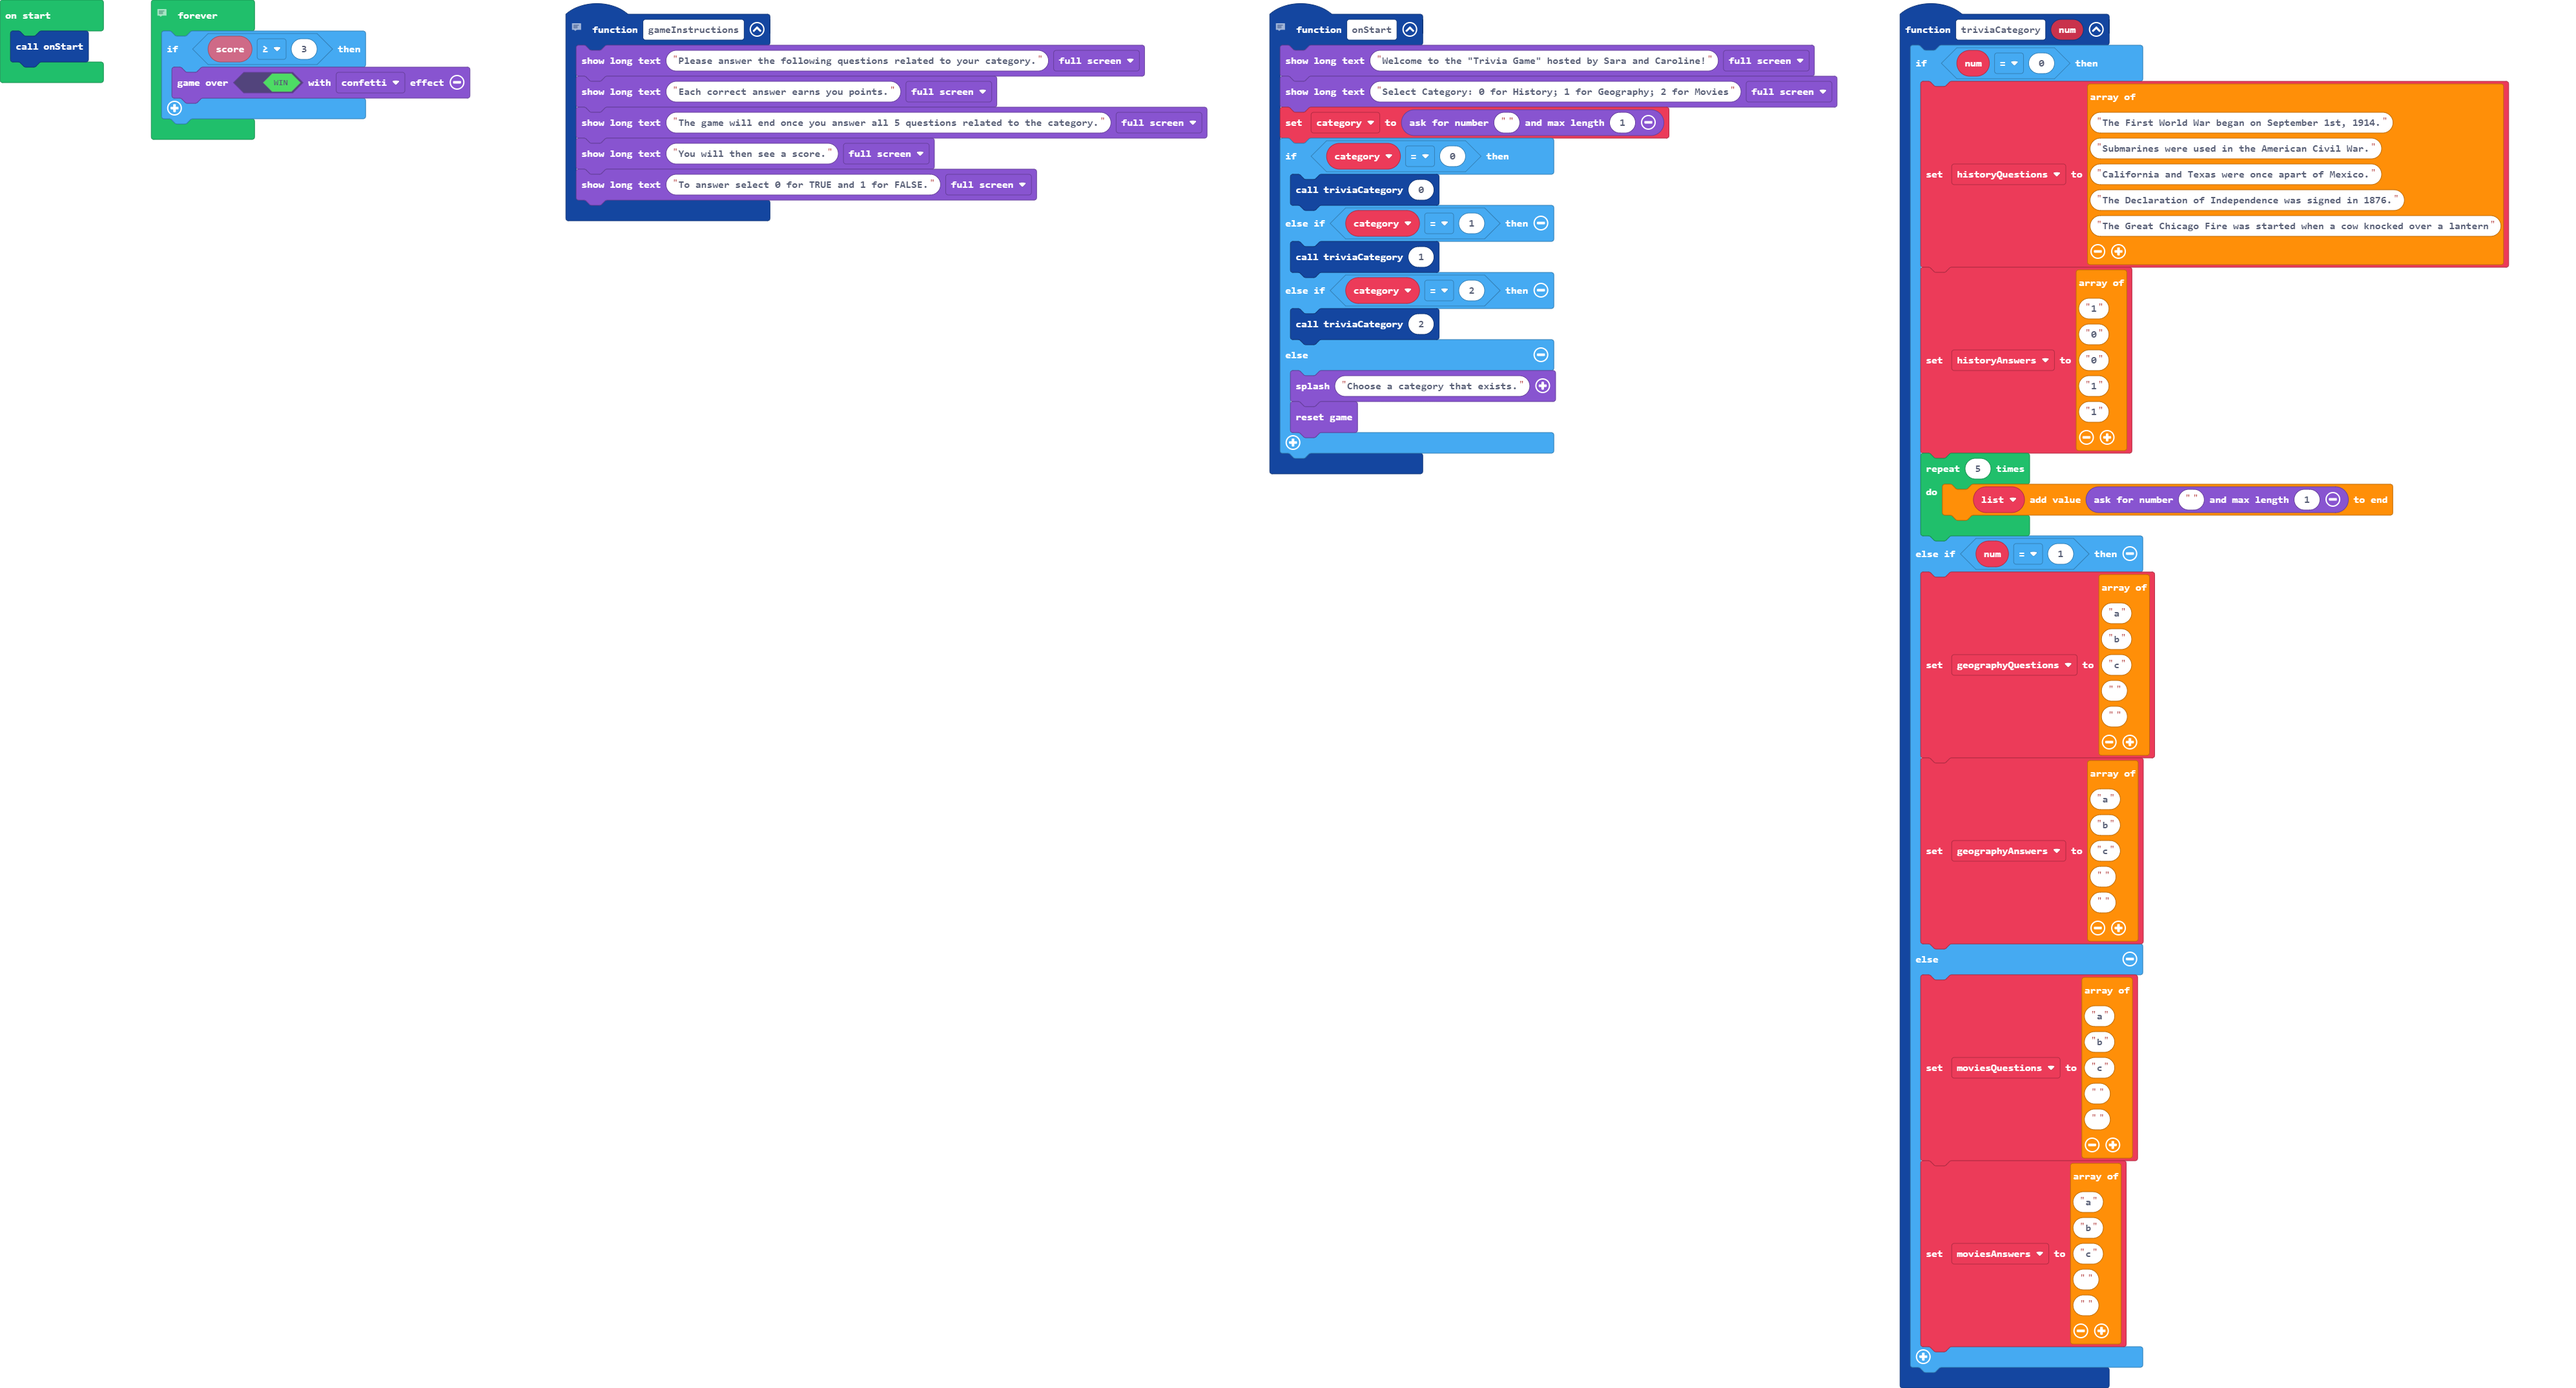
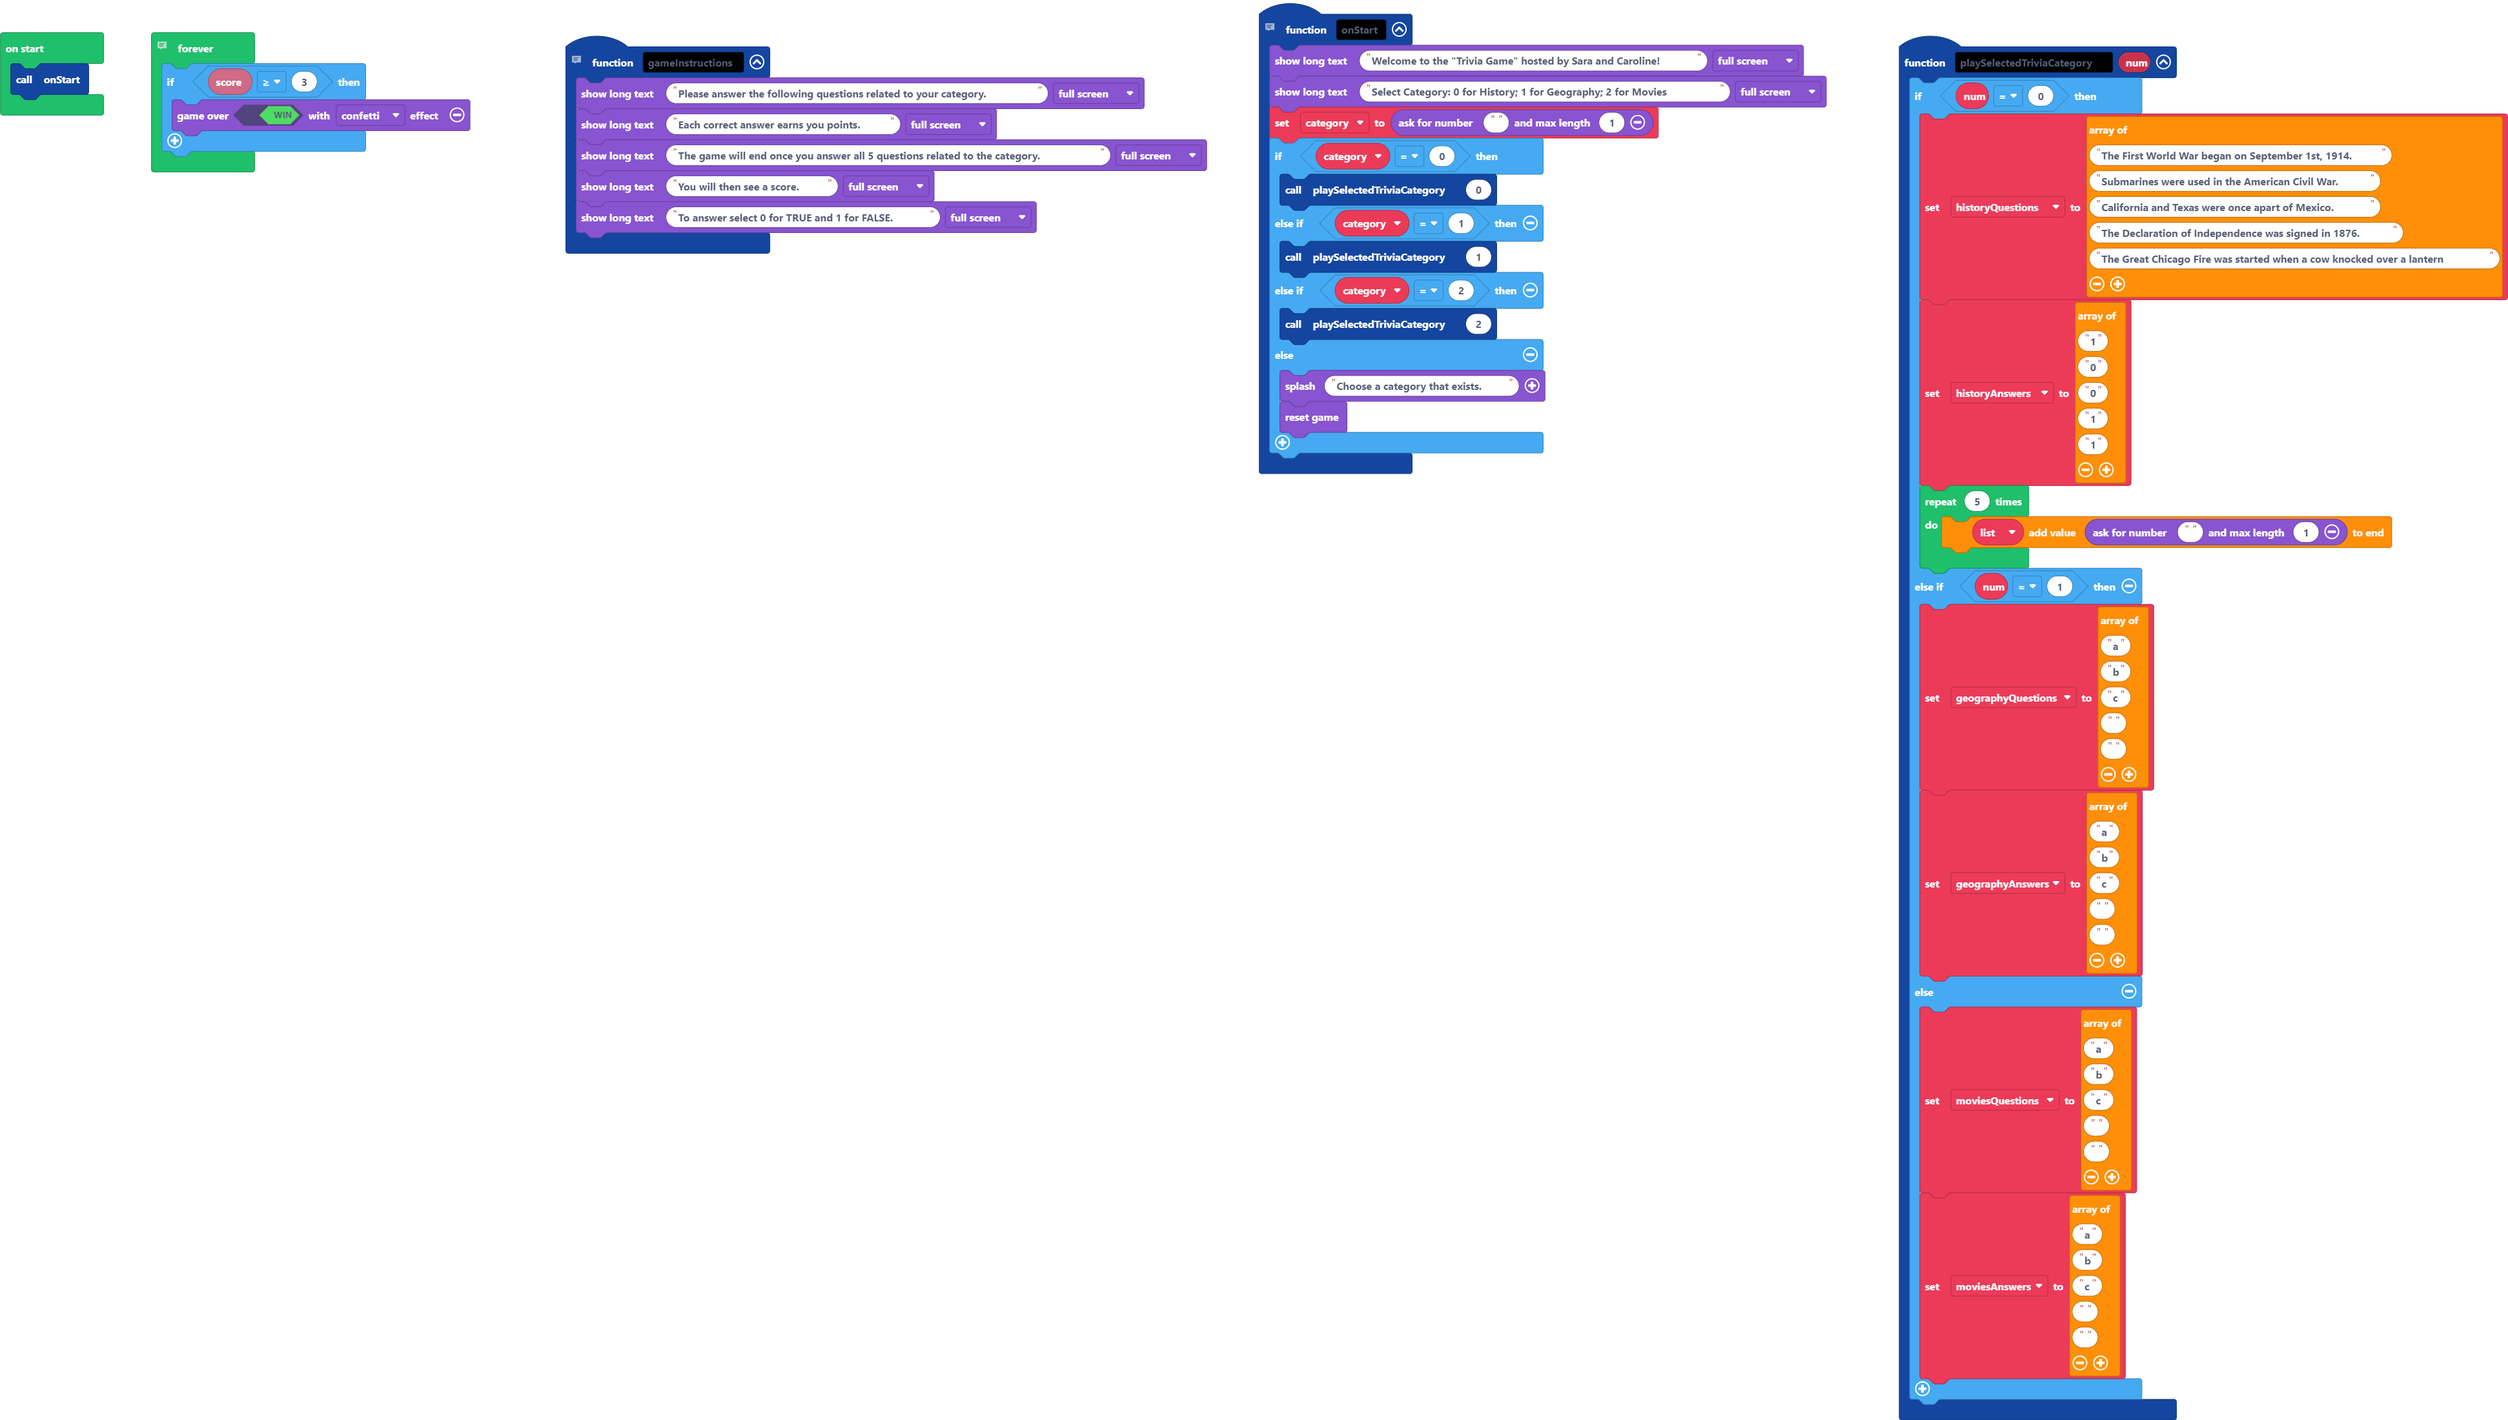
Update pxt.json, main.blocks, main.ts

Changed region(s): [[0.218, 0.0, 1.0, 1.0], [0.0, 0.0, 0.1869, 0.1247]]

diff --git a/main.ts b/main.ts
@@ -20,17 +20,17 @@ function onStart () {
     game.showLongText("Select Category: 0 for History; 1 for Geography; 2 for Movies", DialogLayout.Full)
     category = game.askForNumber("", 1)
     if (category == 0) {
-        triviaCategory(0)
+        playSelectedTriviaCategory(0)
     } else if (category == 1) {
-        triviaCategory(1)
+        playSelectedTriviaCategory(1)
     } else if (category == 2) {
-        triviaCategory(2)
+        playSelectedTriviaCategory(2)
     } else {
         game.splash("Choose a category that exists.")
         game.reset()
     }
 }
-function triviaCategory (num: number) {
+function playSelectedTriviaCategory (num: number) {
     if (num == 0) {
         historyQuestions = [
         "The First World War began on September 1st, 1914.",
